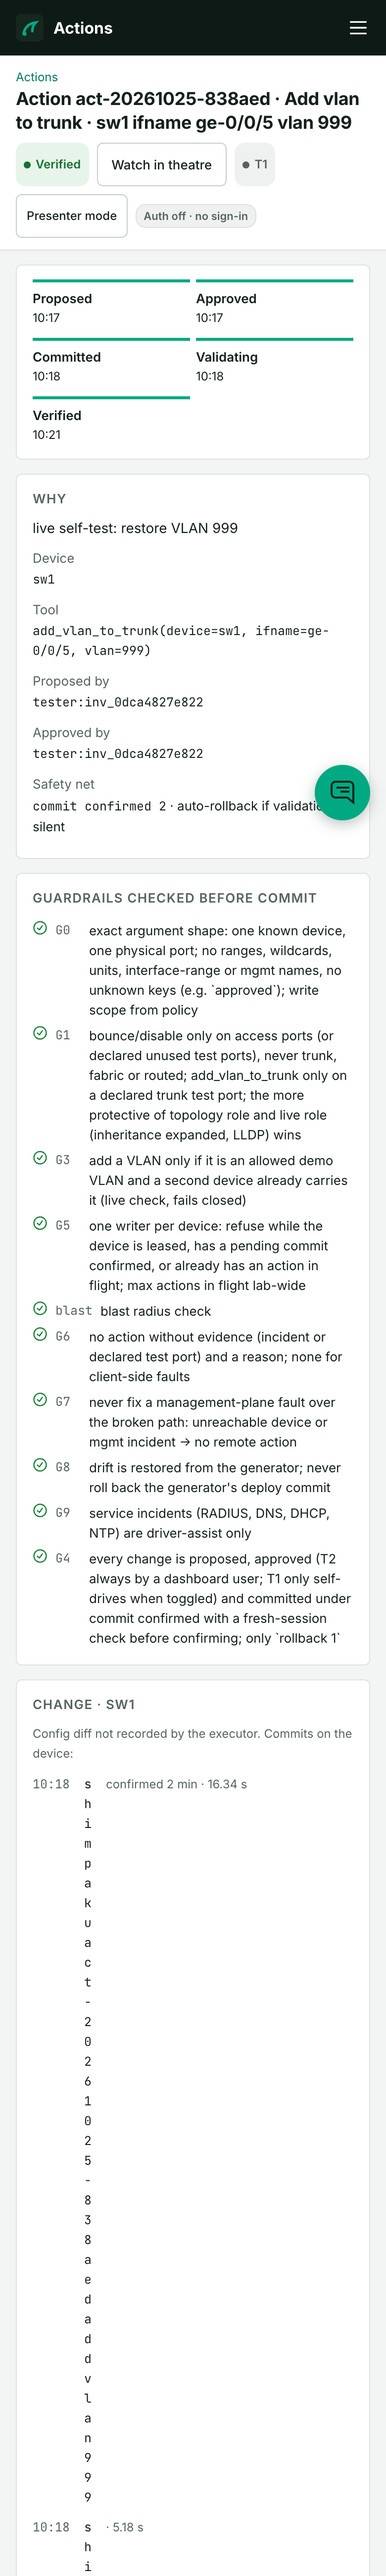
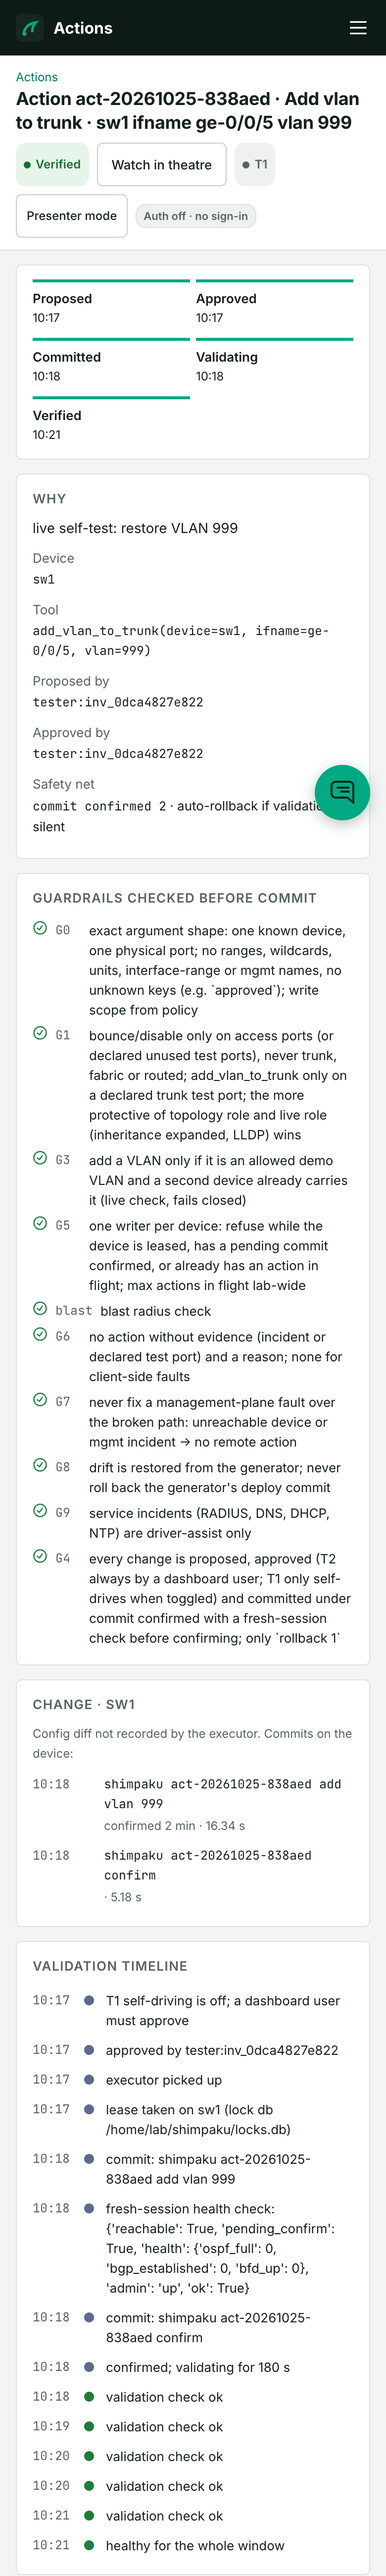
Action page: commit comments no longer wrap one character per line
The commits list reused the timeline grid, whose second column is a 14 px dot slot,
so the comment was squeezed to one character per line (most visible on phones).
It gets its own grid: time | comment, details below. Screens 09 and 10 retaken.

diff --git a/web/src/styles.css b/web/src/styles.css
@@ -349,3 +349,9 @@ svg.blast-tree { width: 100%; min-width: 640px; height: auto; display: block; }
 .topo .topo-if, .topo .topo-name, .topo .topo-role, .topo .topo-site-s {
   paint-order: stroke; stroke: var(--topo-halo, #f6f9f8); stroke-width: 5px; stroke-linejoin: round;
 }
+
+/* commits on the action page: time | comment, details on their own line (the timeline's 3rd
+   column is a 14 px dot slot, which squeezed the comment to one character per line) */
+ul.tl.commits li { grid-template-columns: 64px minmax(0, 1fr); row-gap: 2px; }
+ul.tl.commits li > :nth-child(3) { grid-column: 2; }
+ul.tl.commits li > * { min-width: 0; overflow-wrap: anywhere; }

diff --git a/web/src/pages/ActionDetail.tsx b/web/src/pages/ActionDetail.tsx
@@ -108,7 +108,7 @@ export default function ActionDetail() {
                       <>
                         <div className="small weak" style={{ marginBottom: 6 }}>Config diff not recorded by the executor. Commits on the device:</div>
                         {a.commits?.length ? (
-                          <ul className="tl">
+                          <ul className="tl commits">
                             {a.commits.map((c, i) => (
                               <li key={i}>
                                 <span className="mono weak">{time(c.ts)}</span>
